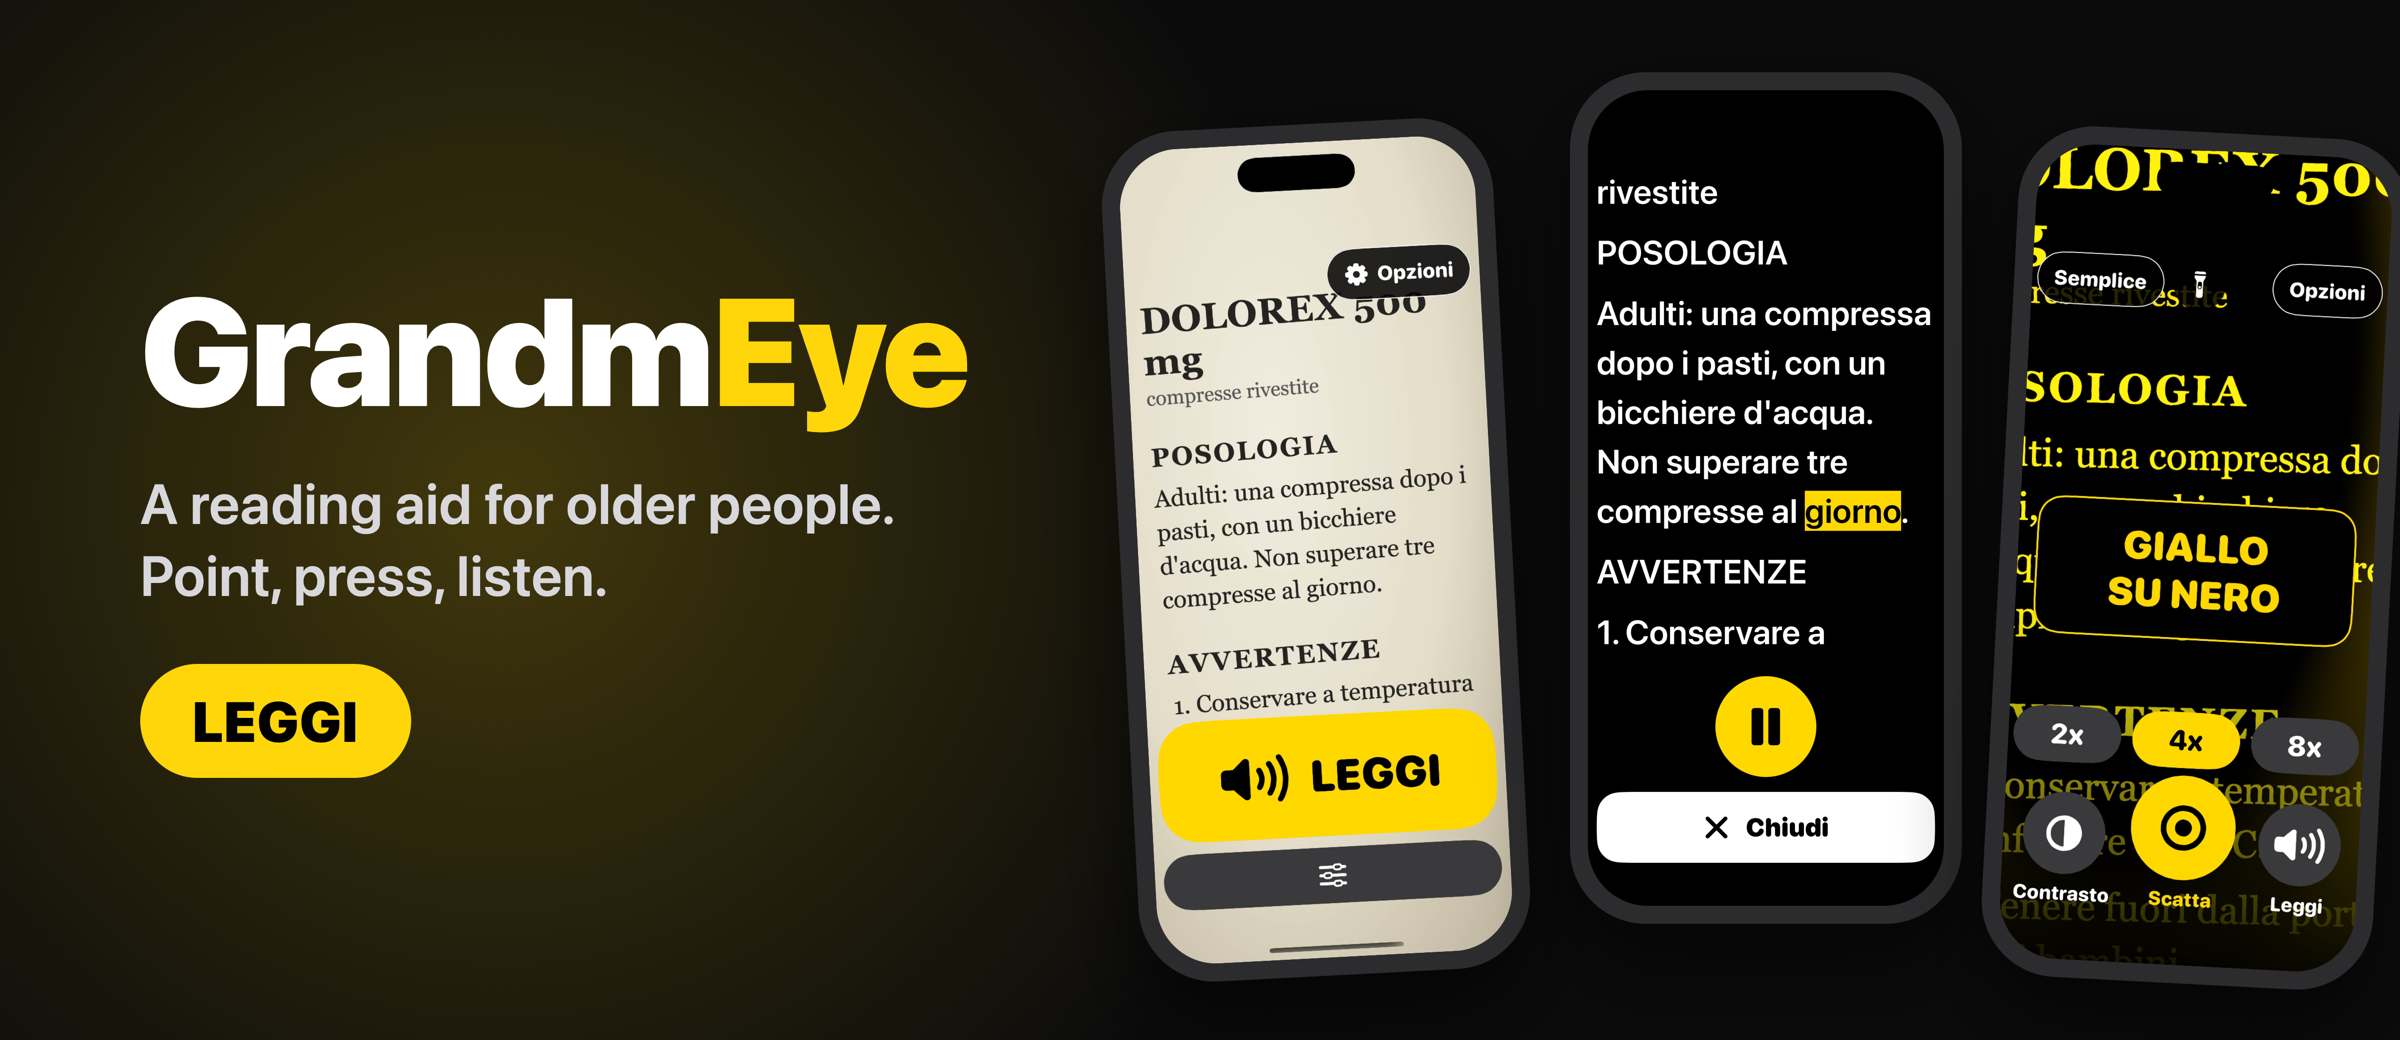
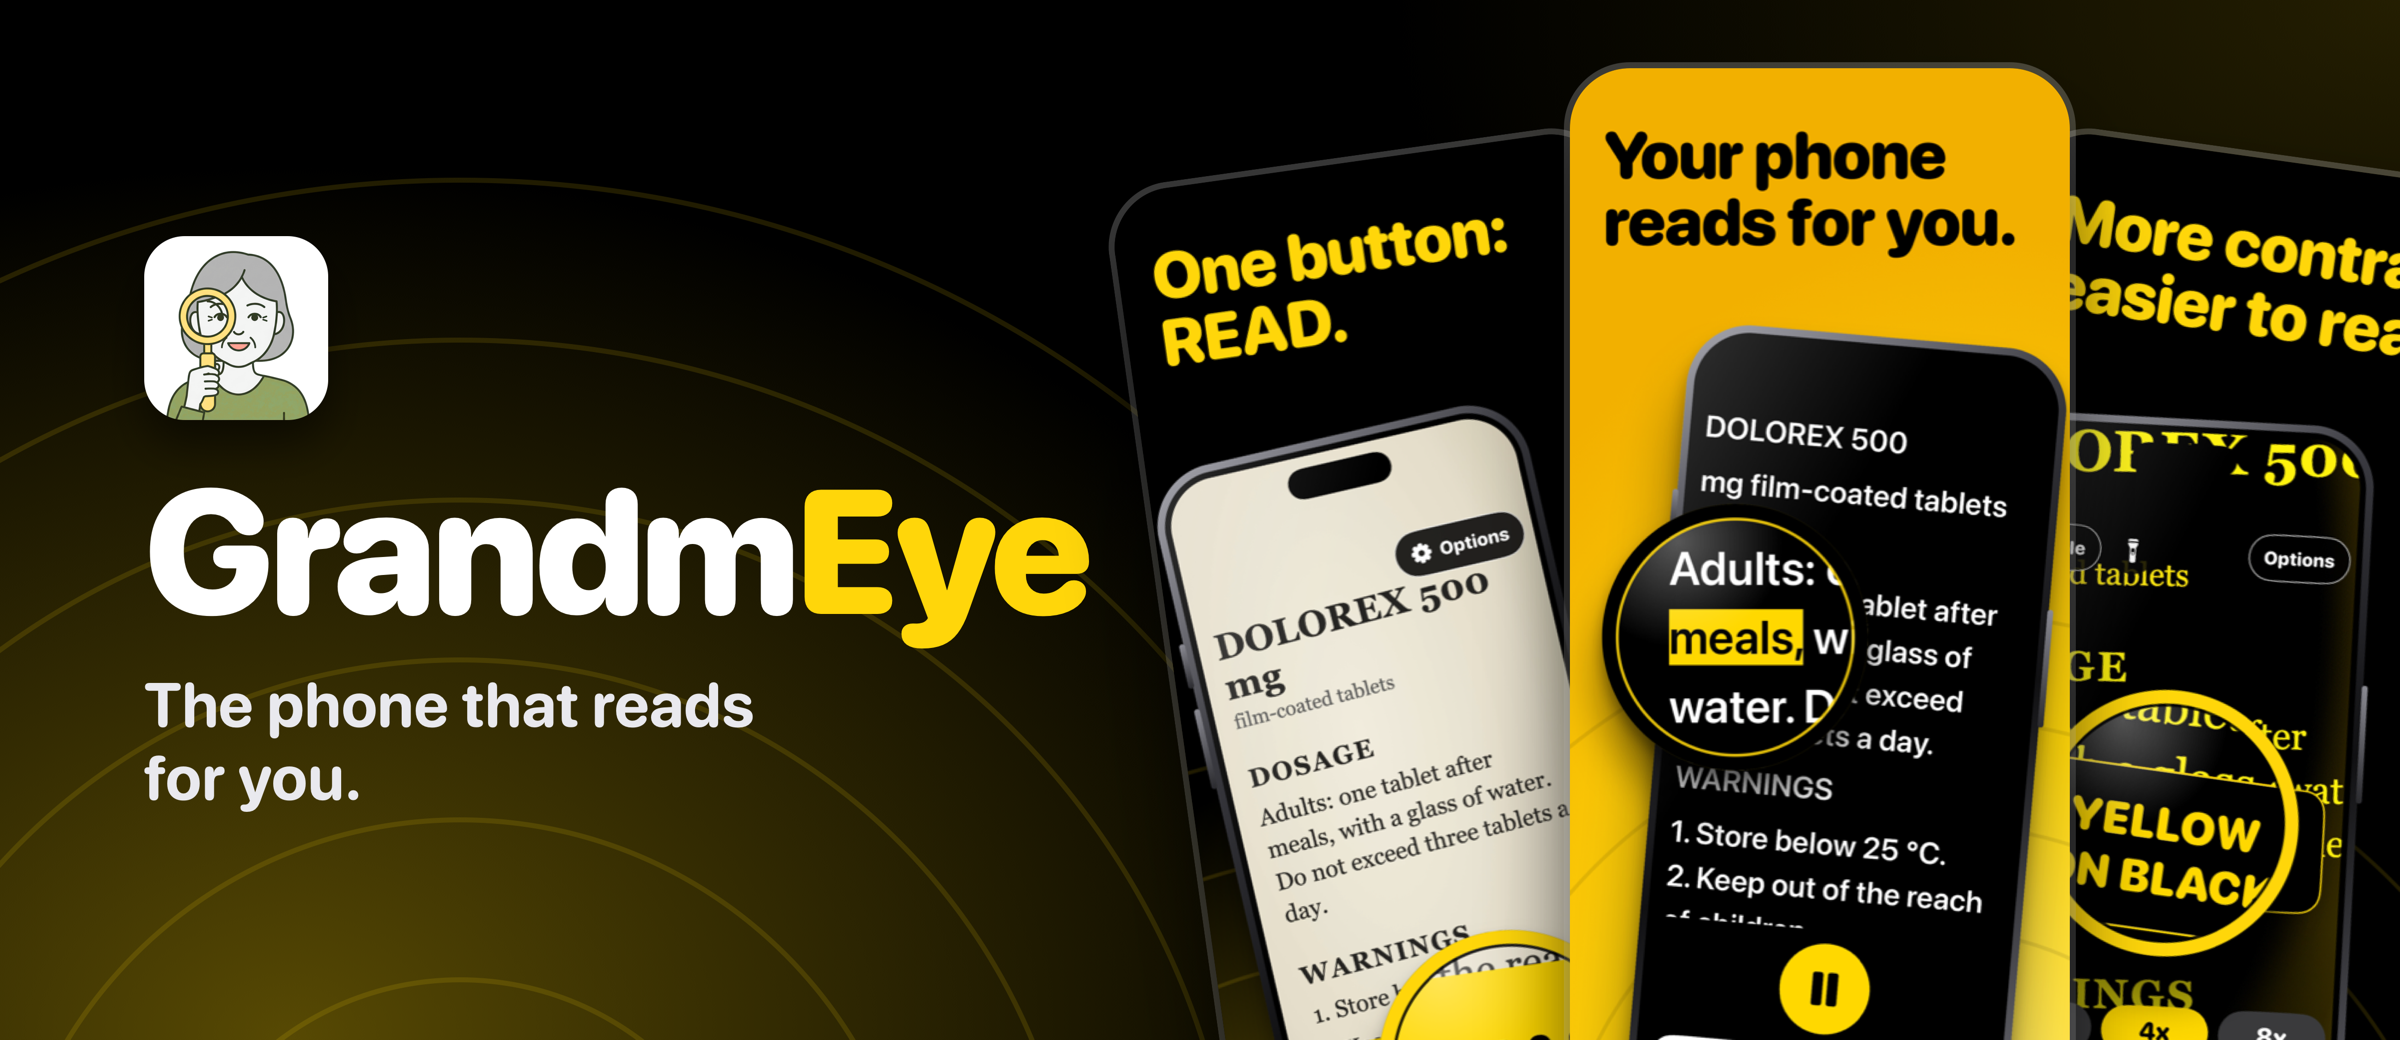
README: new cover, App Store button, screenshot gallery and social preview image
- docs/cover.png: banner with a fan of three store screenshots
- docs/gallery.png: the six App Store screenshots in one strip
- docs/social-preview.png: 1280 x 640 image for the repository's social preview
  (upload it in Settings > Social preview; GitHub has no API for it)
- README: App Store download button and a Screenshots section

diff --git a/README.md b/README.md
@@ -1,6 +1,10 @@
 <p align="center"><img src="docs/cover.png" alt="GrandmEye: a reading aid for older people. Point, press, listen."></p>
 
 <p align="center">
+  <a href="https://apps.apple.com/app/id6758917709"><img src="https://img.shields.io/badge/App%20Store-Download-FFD60A?style=for-the-badge&logo=apple&logoColor=black" alt="Download on the App Store"></a>
+</p>
+
+<p align="center">
   <img src="https://img.shields.io/badge/platform-iOS%2017%2B-lightgrey?logo=apple" alt="iOS 17+">
   <img src="https://img.shields.io/badge/Swift-5-F05138?logo=swift&logoColor=white" alt="Swift 5">
   <img src="https://img.shields.io/badge/UI-SwiftUI-0A84FF" alt="SwiftUI">
@@ -17,6 +21,7 @@ Point at the small print, press one big button, and listen: everything happens o
 ## Table of contents
 
 - [About the project](#about-the-project)
+- [Screenshots](#screenshots)
 - [Features](#features)
 - [Design principles](#design-principles)
 - [Engineering highlights](#engineering-highlights)
@@ -43,6 +48,12 @@ It is a one-person project. The first version was a camera magnifier with a free
 <td align="center" width="300"><img src="docs/demo.gif" width="270" alt="Pressing LEGGI, holding still, listening with the spoken word highlighted, then the advanced mode with contrast and a still photo"></td>
 </tr>
 </table>
+
+## Screenshots
+
+<p align="center"><img src="docs/gallery.png" alt="Six screens of GrandmEye: your phone reads for you, one button, shaky hands, more contrast, zoom with two fingers, all on your phone"></p>
+
+<p align="center"><sub>The App Store screenshots. The yellow lens shows the detail each headline talks about.</sub></p>
 
 ## Features
 
